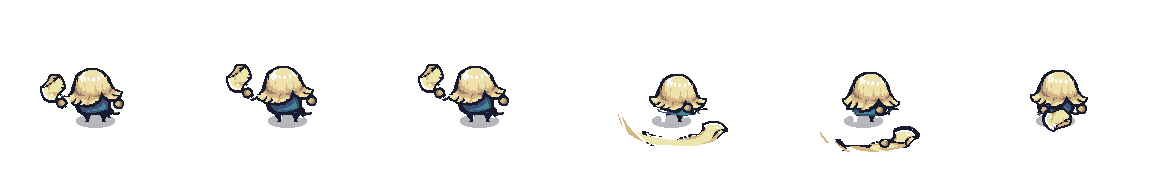
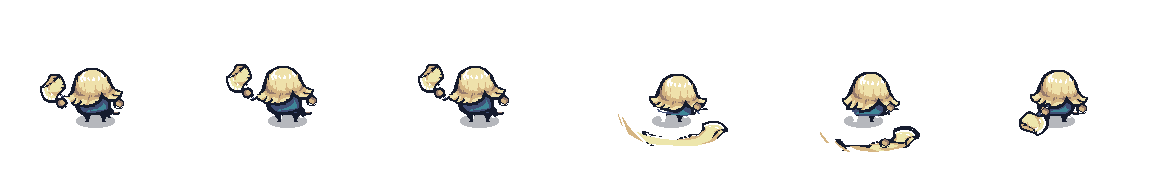
Old Pawn swings: hand pass, exactly two hands per frame, gripping, free hand on its own side, with a per-frame audit

Changed region(s): [[0.875, 0.5625, 0.9375, 0.7188], [0.75, 0.5312, 0.7812, 0.5938], [0.5938, 0.5312, 0.625, 0.5938]]

diff --git a/games/pawnrun/tools/make_old_anims.py b/games/pawnrun/tools/make_old_anims.py
@@ -303,51 +303,115 @@ def hand_ring(g):
     return int(xs.mean()), int(ys.mean())
 
 
+def find_hands(a):
+    """Hand rings by their look: a small brown disc ringed by dark outline (hair and tool shading are brown too, but not ringed)."""
+    m = is_col(a, [BROWN])
+    lab, n = ndi.label(m, structure=np.ones((3, 3)))
+    nav, out = is_col(a, [NAVY]), []
+    for i in range(1, n + 1):
+        c = lab == i
+        ys, xs = np.where(c)
+        if not (8 <= c.sum() <= 75 and np.ptp(xs) <= 9 and np.ptp(ys) <= 9):
+            continue
+        ring = ndi.binary_dilation(c, structure=np.ones((3, 3))) & ~c
+        if (ring & nav).sum() >= 0.4 * ring.sum():
+            out.append((int(xs.mean()), int(ys.mean()), c | (ring & nav)))
+    return out
+
+
+def strip_hands(lay):
+    """Take every hand ring (and its outline) off a body layer; the swing puts exactly the right two back."""
+    for _, _, m in find_hands(lay):
+        lay = lay * ~m[..., None]
+    return lay
+
+
+def ring_layer():
+    """His hand ring exactly as the hammer's wind-up frame draws it: outline, tan face, brown shade."""
+    a = side(sheet(), 2, 0)
+    m = tool_group(a, True) & ~tool_group(a, False)
+    return layer(a, m), bbox(m)
+
+
+RING, RB = ring_layer()
+RC = ((RB[0] + RB[2]) // 2, (RB[1] + RB[3]) // 2)
+
+
+def ring_at(cx, cy):
+    return xform(RING, dx=cx - RC[0], dy=cy - RC[1])
+
+
+# where the side rows draw his two hands, frame by frame (side-row pixels; the tables are turned to the view below).
+# The axe row hides both hands in the swoosh on f3 and the tool hand on f4, so those are filled in along the swing.
+FREE = {"axe": [(119, 103), (120, 100), (120, 100), (121, 106), (122, 107), (122, 108)],
+        "hammer": [(81, 111), (85, 109), (85, 109), (67, 107), (68, 105), (73, 111)]}
+HAMMER_TOOL = [(123, 80), (122, 78), (122, 78), None, None, (123, 109)]     # f3/f4: the grip is set on the slab itself
+MIRROR = lambda p: (194 - p[0], p[1])
+
+
+def free_hands(weapon, up):
+    """His free (left) hand per frame: screen right in the front view, screen left in the back view."""
+    f = FREE[weapon]
+    flip = (weapon == "axe") == up                     # the axe row's free hand is on the right, the hammer row's on the left
+    return [MIRROR(p) if flip else p for p in f]
+
+
+def mirrored_body(weapon, up):
+    """Right-handed in both views: the side rows are turned so the free hand lands on his own left."""
+    return (weapon == "axe") == up
+
+
 def hammer_frames(up, S):
     """His real build row: lift the hammer high, then slam it straight down (vertical on screen in both views)."""
-    L = lambda k: layer(S[k], tool_mask("hammer", k, S[k]))
-    group = [clean(L(k), 14) for k in range(3)]
-    sw, rs, rest = L(3), L(4), L(5)
+    flip = not up                                      # front view: his right hand is on screen left, so the row is mirrored
+    fl = (lambda lay: xform(lay, flip="h", pivot=(97, 0))) if flip else (lambda lay: lay)
+    fp = MIRROR if flip else (lambda p: p)
+    head = lambda k: strip_hands(layer(S[k], tool_group(S[k], False)))
+    sw, rs, rest = layer(S[3], tool_mask("hammer", 3, S[3])), layer(S[4], tool_mask("hammer", 4, S[4])), head(5)
     for lay in (sw, rs):
         lay[84:114, 118:132] = 0                      # that corner is his hair fringe, not swoosh
     x0, y0, x1, y1 = bbox(sw[..., 3] == 255)
     for lay in (sw, rs):                               # no dark specks along the streak: outline only on the head at the bottom
         lay[:y1 - 30] *= ~is_col(lay[:y1 - 30], [NAVY])[..., None]
-    for lay in (sw, rs):                               # and no loose bits of that outline
         nv = is_col(lay, [NAVY])
         lab, n = ndi.label(nv, structure=np.ones((3, 3)))
         lay *= ~np.isin(lab, [i + 1 for i, z in enumerate(ndi.sum(nv, lab, range(1, n + 1))) if z < 15])[..., None]
-    sw, rs = clean(sw, 8), clean(rs, 8)
+    sw, rs = clean(strip_hands(sw), 8), clean(strip_hands(rs), 8)
     lab, n = ndi.label(rs[..., 3] == 255, structure=np.ones((3, 3)))
     rs = rs * (lab == 1 + int(np.argmax(ndi.sum(lab > 0, lab, range(1, n + 1)))))[..., None]     # follow-through: the head and streak only
+    sw, rs, rest = fl(sw), fl(rs), fl(rest)
     cols = np.where((sw[y1 - 24:, :, 3] == 255).sum(0) >= 15)[0]      # the columns the head really fills
     sx0, sx1 = cols.min(), cols.max()
     slab_x = (sx0 + sx1) // 2                          # the head's centre column: this is what lands on the spot
     for lay in (sw, rs):
-        lay[y1 - 30:, :sx0 - 3] = 0                # nothing but the head at the foot of the streak
+        lay[y1 - 30:, :sx0 - 3] = 0                    # nothing but the head at the foot of the streak
+        lay[y1 - 30:, sx1 + 3:] = 0
     if up:                                             # lands just above the top of his hair, a little right of centre
         dx, dy = 104 - slab_x, 78 - y1
     else:                                              # lands just below his feet, a little left (his right hand): swoosh stretched taller
         sw = stretch(sw, 14, 62, 100)
         dx, dy = 80 - slab_x, 142 - y1
     sw, rs = xform(sw, dx=dx, dy=dy), xform(rs, dx=dx, dy=dy)
+    tool = [fp(p) if p else p for p in HAMMER_TOOL]
     low = lambda lay: lay * (np.arange(F)[:, None, None] >= 106)       # the head part, drawn in front of his feet
     high = lambda lay: lay * (np.arange(F)[:, None, None] < 106)
+    targets = [(136, 108), (136, 92), (131, 78)] if up else [(58, 100), (56, 88), (60, 74)]
+    wind = []
+    for i in range(3):                                 # lifted: his hand grips the base of the head (ring tucked 2 px up under it)
+        rx, ry = tool[i]
+        ry -= 3
+        tx, ty = targets[i]
+        wind.append(xform(fl(head(i)), dx=tx - rx, dy=ty - ry))
+        wind[-1] = (wind[-1], ring_at(tx, ty))
     out = []
-    if up:
-        for i, (hx, hy) in enumerate([(136, 108), (136, 92), (131, 78)]):      # raised from his right side to high overhead
-            g = group[i]
-            gx, gy = hand_ring(g)
-            out.append(([], True, [xform(g, dx=hx - gx, dy=hy - gy)]))
-        out += [([hand_at(118, 84)], False, [sw]), ([hand_at(118, 86)], False, [rs]),
-                ([hand_at(120, 110)], False, [xform(rest, dx=4, dy=6)])]
-    else:
-        for i, (hx, hy) in enumerate([(58, 100), (56, 88), (60, 74)]):           # cocked up over his right shoulder (screen left)
-            g = xform(group[i], flip="h", pivot=(97, 0))
-            gx, gy = hand_ring(g)
-            out.append(([xform(g, dx=hx - gx, dy=hy - gy)], False, []))
-        out += [([low(sw)], False, [high(sw)]), ([low(rs)], False, [high(rs)]),
-                ([xform(rest, flip="h", pivot=(97, 0), dx=-3, dy=4)], False, [])]
+    for i in range(3):
+        out.append(([wind[i][1]], True, [wind[i][0]]) if up else ([wind[i][0], wind[i][1]], False, []))
+    gx = (104 + 11) if up else (80 - 11)             # his right hand: on the slab's right (back view) / left (front view) side
+    for k, lay in enumerate((sw, rs)):                 # the grip sits against the foot of the head, two pixels onto it
+        ring = ring_at(gx + (-2 if up else 2), y1 + dy - 8)
+        out.append(([ring] if up else [low(lay), ring], False, [lay] if up else [high(lay)]))
+    r5 = ring_at(*HAMMER_TOOL[5])
+    out.append(([xform(r5, dx=4, dy=6)], False, [xform(rest, dx=4, dy=6)]) if up else ([rest, fl(r5)], False, []))
     return out
 
 
@@ -357,38 +421,64 @@ def frames_for(weapon, up, S):
         return hammer_frames(up, S)
     L = lambda k: layer(S[k], tool_mask("axe", k, S[k]))
     group, rest = [L(k) for k in range(3)], L(5)
-    smear, resid = L(3), L(4)
+    smear, resid = L(3), strip_hands(L(4))
     arc = lambda lay, dy=0: to_arc(lay, "axe", up, smear, top=114, bottom=70, dy=dy)
     trail = lambda dy: layer(arc(smear, dy), np.arange(F)[None, :] >= 100)
-    home = xform(rest, flip="h", pivot=(96, 0), dx=-22, dy=-4)
+    f5 = [rest, ring_at(85, 111)]                      # his own side pose again: the head at the lower left, his right hand on it
+    # f4: the side row shows only the tool hand, at the head's near edge; it rides on the arc's head end
+    hd = resid * (np.arange(F)[None, :, None] >= 135)
+    hx0, hy0, hx1, hy1 = bbox(hd[..., 3] == 255)
+    rel = (128 - hx0, 113 - (hy0 + hy1) // 2)
     if not up:                                         # his own side pose: the tool cocked up and out on screen left (his right hand)
-        return [([xform(g, dx=-3)], False) for g in group] + [
-            ([arc(smear), hand_at(113, 108)], False), ([trail(5), arc(resid, 5), hand_at(113, 110)], False), ([home], False)]
+        def f4(dy):
+            h = arc(hd, dy)
+            ax0, ay0, ax1, ay1 = bbox(h[..., 3] == 255)
+            return [trail(dy), arc(resid, dy), ring_at(ax0 + rel[0], (ay0 + ay1) // 2 + rel[1])]
+        return [([xform(g, dx=-3)], False) for g in group] + [([arc(smear)], False), (f4(5), False), (f5, False)]
     low = []
     for i in range(3):                                 # back view: tool low behind his right shoulder, pulled back
         g = xform(xform(group[i], flip="v", pivot=(96, 96)), flip="h", pivot=(96, 0))
         x0, y0, x1, y1 = bbox(g[..., 3] == 255)
         low.append(([xform(g, dx=134 - (x0 + x1) // 2 + i, dy=(110 + 2 * i) - (y0 + y1) // 2)], True))
     mir = lambda ps: [xform(q, flip="h", pivot=(96, 0)) for q in ps]      # right-handed: the arc runs from screen right over his head to the left
-    return low + [(mir([arc(smear), hand_at(110, 74)]), True), (mir([trail(-5), arc(resid, -5), hand_at(110, 76)]), True),
-                  (mir([low[0][0][0]]), True)]
+    h = arc(hd, -5)
+    ax0, ay0, ax1, ay1 = bbox(h[..., 3] == 255)
+    f4u = [trail(-5), arc(resid, -5), ring_at(ax0 + rel[0], (ay0 + ay1) // 2 + rel[1])]
+    return low + [(mir([arc(smear)]), True), (mir(f4u), True), (low[0][0], True)]
 
 
 def swing(weapon, direction):
     up = direction == "up"
     S = [side(sheet(), WEAPONS[weapon]["row"], c) for c in range(6)]
     shadow = np.where(((S[0][..., 3] > 0) & (S[0][..., 3] < 255))[..., None], S[0], 0).astype(np.uint8)
+    free = free_hands(weapon, up)
     out = []
     for k, (pieces, behind, *under) in enumerate(frames_for(weapon, up, S)):
         f = shadow.copy()
-        body = side_body(S[k], k, weapon, "back" if up else "front")
-        if weapon == "hammer" and not up and k < 3:
+        body = strip_hands(side_body(S[k], k, weapon, "back" if up else "front"))
+        if mirrored_body(weapon, up):
             body = xform(body, flip="h", pivot=(97, 0))
-        for lay in (under[0] if under else []) + (pieces + [body] if behind else [body] + pieces):
+        for lay in (under[0] if under else []) + (pieces + [body] if behind else [body] + pieces) + [ring_at(*free[k])]:
             m = lay[..., 3] == 255
             f[m] = lay[m]
         out.append(f)
     return out
+
+
+STRICT = True
+
+
+def audit(name, frames, up, weapon):
+    """Per-frame hand count and places; the rules: two hands (one only where the side row hides the tool hand in the
+    swoosh: the axe's f3), the free hand on its own side of the body."""
+    free_side = (lambda x: x < 97) if up else (lambda x: x > 97)
+    for k, f in enumerate(frames):
+        hs = [(x, y) for x, y, _ in find_hands(f)]
+        want = 1 if weapon == "axe" and k == 3 else 2
+        print(f"  {name} f{k}: {len(hs)} hands {sorted(hs)}")
+        if STRICT:
+            assert len(hs) == want, f"{name} f{k}: {len(hs)} hands, want {want}"
+            assert any(free_side(x) for x, _ in hs), f"{name} f{k}: no free hand on its side"
 
 
 def main():
@@ -397,7 +487,9 @@ def main():
     write("opawn-back-run.png", [back_from_side(side(sh, 1, c)) for c in range(6)])
     for weapon in WEAPONS:
         for d in ("up", "down"):
-            write(f"opawn-{weapon}-{d}.png", swing(weapon, d))
+            fr = swing(weapon, d)
+            write(f"opawn-{weapon}-{d}.png", fr)
+            audit(f"{weapon}-{d}", fr, d == "up", weapon)
 
 
 if __name__ == "__main__":
